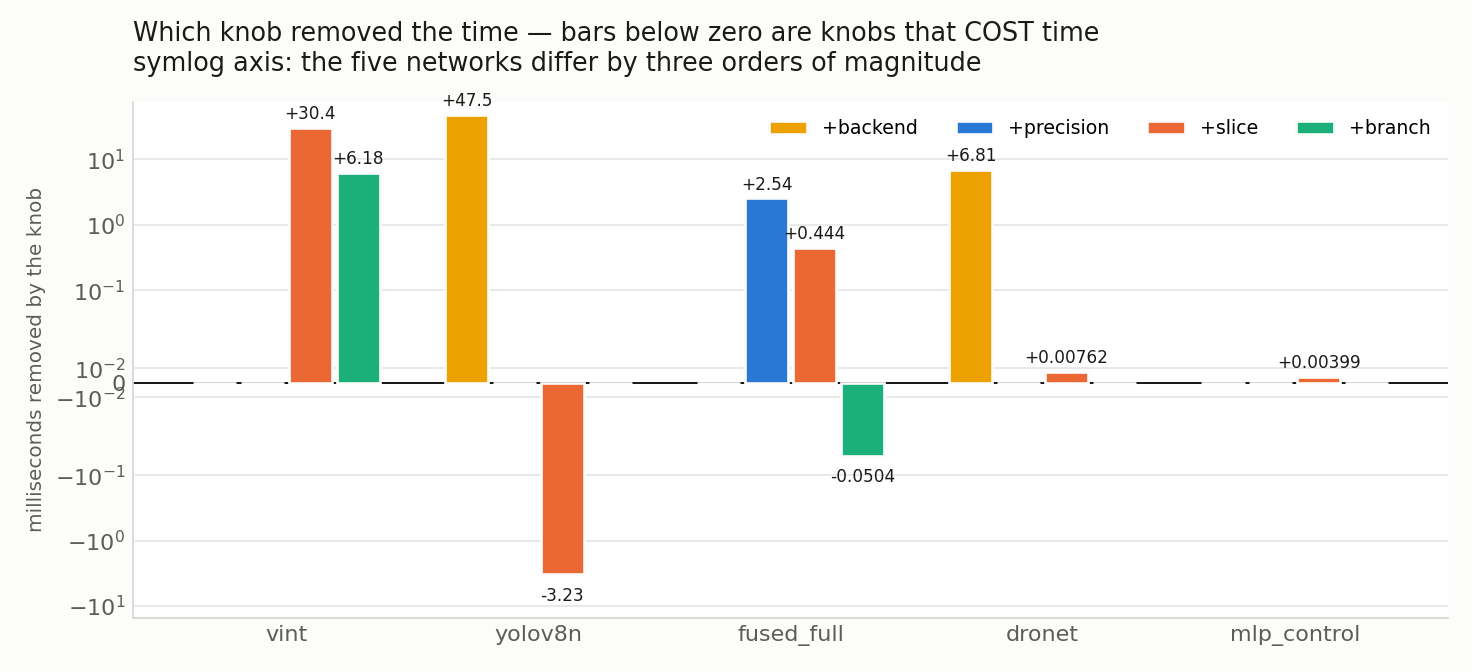
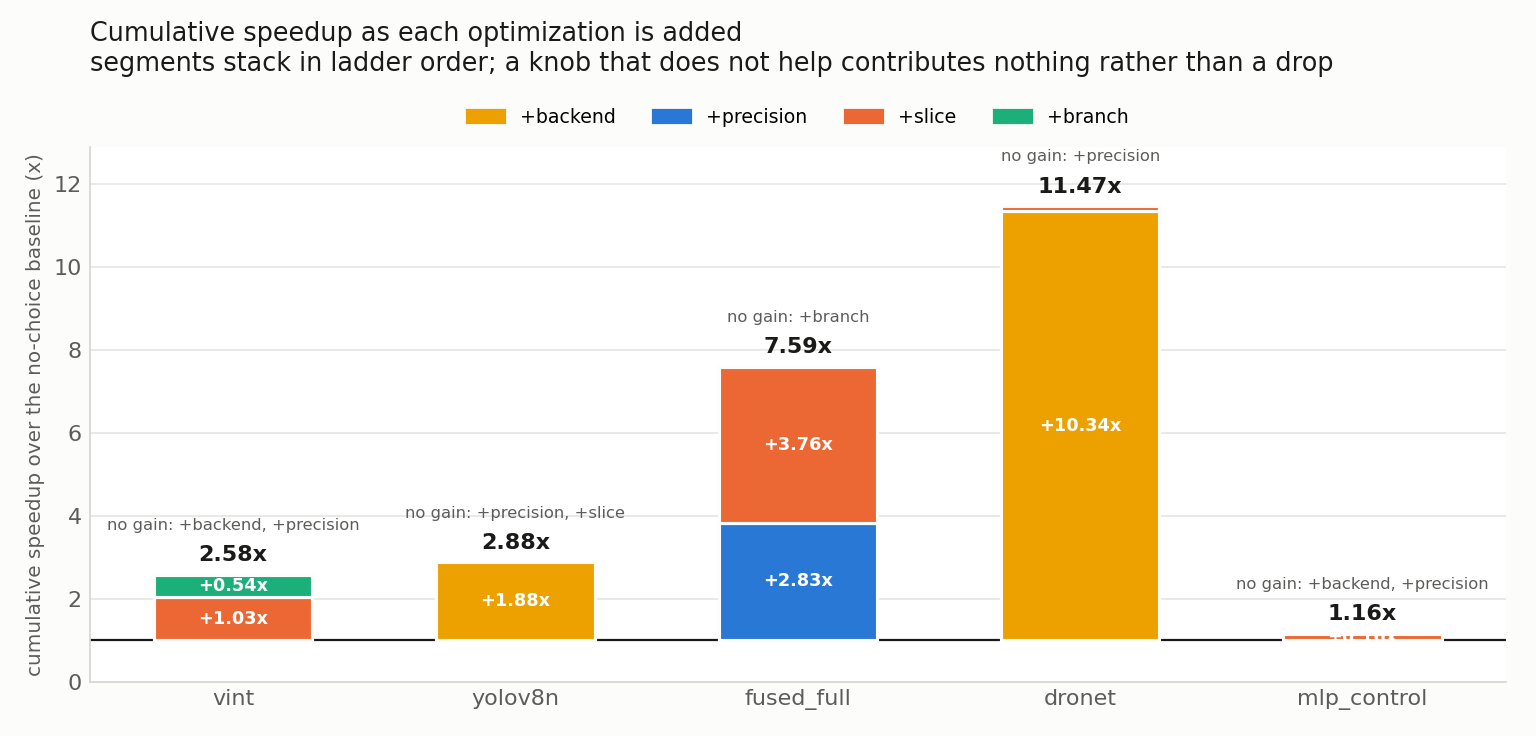
flow_c: cumulative-speedup view, and make both stage figures agree
qrb5165_knob_attribution.png was signed milliseconds saved on a symlog axis,
which put two bars below zero and made the reader do the arithmetic to see
where a network ended up. It is now CUMULATIVE SPEEDUP over the no-choice
baseline: segments stack in ladder order, each one is what that knob added to
the running total, and the bar can only grow.

A knob that makes things worse contributes ZERO rather than a drop, and is
named under the bar as "no gain". That is the honest accounting, not a
cosmetic floor: you would not adopt a knob that regresses, so the running
value is best-so-far, which is exactly what a feedback loop would keep. Two
knobs land there -- yolov8n's +slice and fused_full's +branch -- plus the
several that are simply flat.

  vint         2.58x   +slice 1.03 then +branch 0.54
  yolov8n      2.88x   +backend alone; +precision and +slice add nothing
  fused_full   7.59x   +precision 2.83 then +slice 3.76
  dronet      11.47x   +backend 10.34, +slice a further 0.13
  mlp_control  1.16x   +slice only, and it is 4 us

Also fixes an inconsistency the rewrite exposed: qrb5165_before_after.png
reported the LAST stage as "after", while the cumulative figure is
best-so-far by construction. fused_full's best is 0.452 ms at S3 and it
regresses to 0.503 at S4, so the two figures disagreed (6.83x vs 7.59x). The
before/after figure now reports the best configuration found, which is what
its own legend already claimed, and both read 7.59x.
[…]

diff --git a/scripts/flowc_plot_before_after.py b/scripts/flowc_plot_before_after.py
@@ -62,7 +62,13 @@ def main() -> int:
     ys = list(range(len(order)))[::-1]
     for y, net in zip(ys, order):
         rs = [r for r in nets[net] if r["ms"] is not None]
-        before, after = rs[0], rs[-1]
+        # "after" is the BEST configuration found, not the last stage tried:
+        # fused_full's best is 0.452 ms at S3 and it then regresses to 0.503 at
+        # S4, and no one would ship the regression. This also keeps this figure
+        # consistent with the cumulative one, which is best-so-far by
+        # construction.
+        before = rs[0]
+        after = min(rs[1:], key=lambda r: r["ms"]) if len(rs) > 1 else rs[0]
         b, af = before["ms"], after["ms"]
         ax.plot([b, af], [y, y], color=GRID, lw=3, solid_capstyle="round", zorder=1)
         ax.scatter([b], [y], s=74, color=MUTED, zorder=3, edgecolors="white", lw=1.4)
@@ -118,33 +124,51 @@ def main() -> int:
     fig.savefig(p1, dpi=160, facecolor="#fcfcfb")
     print(f"  wrote {p1}")
 
-    # ---------- figure 2: attribution ----------
-    fig2, ax2 = plt.subplots(figsize=(9.2, 4.2))
+    # ---------- figure 2: cumulative speedup ----------
+    # Each knob's segment is how much it added to the RUNNING speedup over the
+    # baseline, so the bar can only grow. A knob that makes things worse -- and
+    # two of them do, yolov8n's +slice and fused_full's +branch -- contributes
+    # ZERO rather than a drop, because you would simply not adopt it. The
+    # running value is therefore best-so-far, which is what a feedback loop
+    # would actually keep.
+    fig2, ax2 = plt.subplots(figsize=(9.6, 4.6))
     knobs = ["+backend", "+precision", "+slice", "+branch"]
-    width = 0.19
-    for i, k in enumerate(knobs):
-        vals, xs = [], []
-        for j, net in enumerate(order):
-            rs = [r for r in nets[net] if r["ms"] is not None]
-            idx = next((q for q, r in enumerate(rs) if short(r["knob"]) == k), None)
-            saved = (rs[idx - 1]["ms"] - rs[idx]["ms"]) if (idx and idx > 0) else 0.0
-            vals.append(saved)
-            xs.append(j + i * width)
-        ax2.bar(xs, vals, width * 0.9, color=KNOB_COLOR[k], label=k,
-                edgecolor="#fcfcfb", lw=1.2, zorder=3)
-        for x, v in zip(xs, vals):
-            if abs(v) > 1e-9:
-                ax2.annotate(f"{v:+.3g}", (x, v), xytext=(0, 4 if v >= 0 else -12),
-                             textcoords="offset points", ha="center",
-                             fontsize=7.6, color=INK)
-    ax2.axhline(0, color=INK, lw=0.9)
-    ax2.set_xticks([j + 1.5 * width for j in range(len(order))])
+    for j, net in enumerate(order):
+        rs = [r for r in nets[net] if r["ms"] is not None]
+        base = rs[0]["ms"]
+        best = base
+        bottom, segs = 1.0, []
+        for r in rs[1:]:
+            if r["ms"] < best:                 # only an improvement moves the bar
+                best = r["ms"]
+            cum = base / best
+            segs.append((short(r["knob"]), cum - bottom))
+            bottom = cum
+        run = 1.0
+        for k, inc in segs:
+            if inc <= 1e-9:
+                continue
+            ax2.bar(j, inc, 0.56, bottom=run, color=KNOB_COLOR[k],
+                    edgecolor="#fcfcfb", lw=1.4, zorder=3)
+            if inc / bottom > 0.06:
+                ax2.annotate(f"+{inc:.2f}x", (j, run + inc / 2), ha="center",
+                             va="center", fontsize=8, color="white", weight="bold",
+                             zorder=4)
+            run += inc
+        ax2.annotate(f"{run:.2f}x", (j, run), xytext=(0, 6),
+                     textcoords="offset points", ha="center",
+                     fontsize=10, color=INK, weight="bold")
+        dropped = [k for k, inc in segs if inc <= 1e-9]
+        if dropped:
+            ax2.annotate("no gain: " + ", ".join(dropped), (j, run),
+                         xytext=(0, 20), textcoords="offset points",
+                         ha="center", fontsize=7.4, color=MUTED)
+    ax2.axhline(1.0, color=INK, lw=1.0)
+    ax2.set_xticks(range(len(order)))
     ax2.set_xticklabels(order, fontsize=10, color=INK)
-    ax2.set_ylabel("milliseconds removed by the knob", fontsize=9, color=MUTED)
-    ax2.set_yscale("symlog", linthresh=0.05)
-    # widen the negative side so the "knob cost time" labels clear the x ticks
-    lo, hi = ax2.get_ylim()
-    ax2.set_ylim(lo * 2.6, hi * 1.5)
+    ax2.set_ylabel("cumulative speedup over the no-choice baseline (x)",
+                   fontsize=9, color=MUTED)
+    ax2.set_ylim(0, 12.9)
     ax2.grid(axis="y", color=GRID, lw=0.7, alpha=0.7)
     ax2.set_axisbelow(True)
     for sp in ("top", "right"):
@@ -152,10 +176,15 @@ def main() -> int:
     for sp in ("left", "bottom"):
         ax2.spines[sp].set_color(GRID)
     ax2.tick_params(colors=MUTED, length=0)
-    ax2.legend(fontsize=8.5, frameon=False, ncol=4, loc="upper right")
-    ax2.set_title("Which knob removed the time — bars below zero are knobs that COST time\n"
-                  "symlog axis: the five networks differ by three orders of magnitude",
-                  fontsize=11.5, loc="left", color=INK, pad=14)
+    handles = [plt.Rectangle((0, 0), 1, 1, color=KNOB_COLOR[k]) for k in knobs]
+    # legend sits ABOVE the axes: dronet's bar reaches 11.5x and its caption
+    # was landing inside an in-axes legend
+    ax2.legend(handles, knobs, fontsize=8.5, frameon=False, ncol=4,
+               loc="lower center", bbox_to_anchor=(0.5, 1.005))
+    ax2.set_title("Cumulative speedup as each optimization is added\n"
+                  "segments stack in ladder order; a knob that does not help "
+                  "contributes nothing rather than a drop",
+                  fontsize=11.5, loc="left", color=INK, pad=34)
     fig2.tight_layout()
     p2 = os.path.join(a.out, "qrb5165_knob_attribution.png")
     fig2.savefig(p2, dpi=160, facecolor="#fcfcfb")
